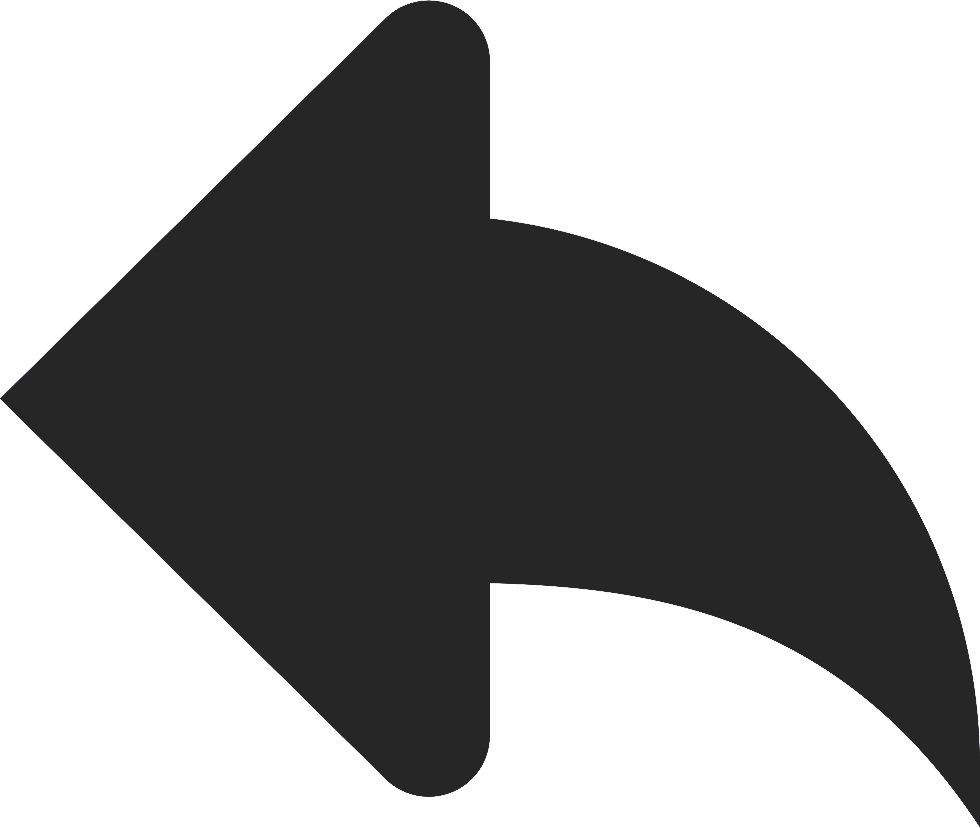
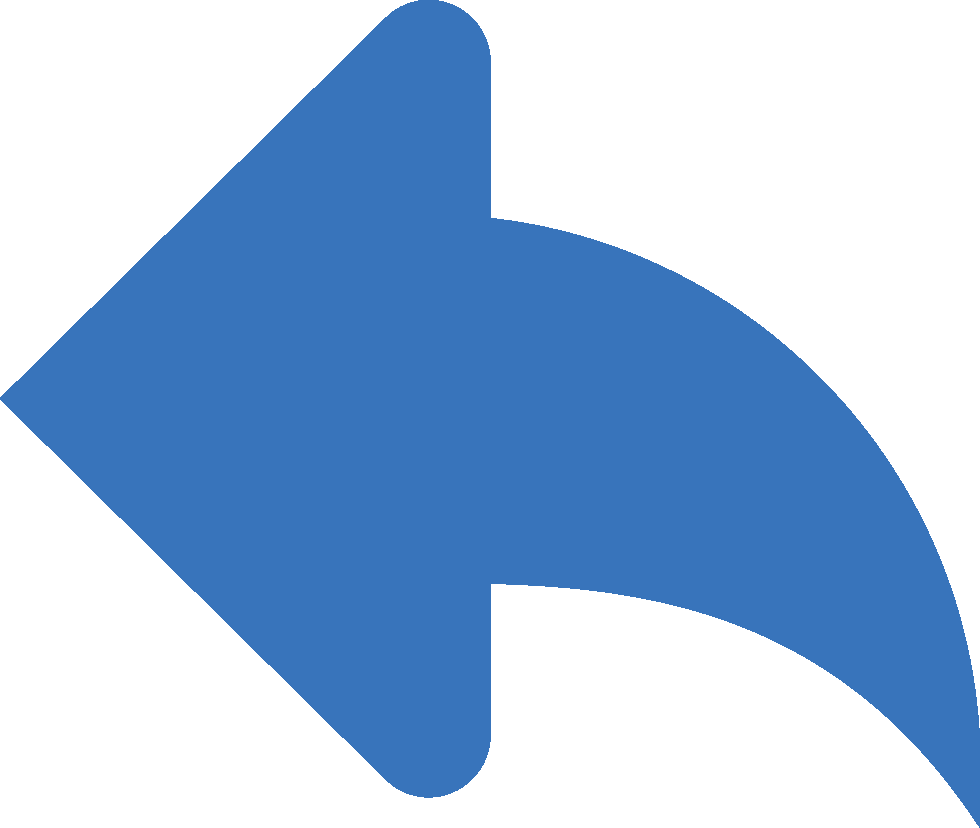
Theme_changed

diff --git a/ctdbstyle.css b/ctdbstyle.css
@@ -16,9 +16,9 @@ body{
 .outerBox{
     height: 100vh;
     width: 100vw;
+    /* min-width: 940px; */
+    background: white;
     overflow: hidden scroll;
-    align-items: center;
-    background: linear-gradient(to top left, rgb(152, 197, 249),rgb(244, 213, 241));
 }
 
 .header{
@@ -26,36 +26,48 @@ body{
     align-content: center;
     align-items: center;
     justify-content: space-between;
-    box-shadow: 2px 2px 5px  rgb(97 , 128 , 168);
+    /* box-shadow: 1px 1px 1px  rgb(97 , 128 , 168); */
     padding:0 30px 0 20px;
     height: 70px;
     width: 100vw;
-    background: rgb(255, 255, 255, 0.5);
+    background: #0574bb;
     margin: 0 auto;
-    border-radius: 0 0px 10px 10px;
+    /* border-radius: 0 0px 10px 10px; */
+    border: 1px solid black;
     position: sticky;
     top: 0;
 }
 .logo img{
-    height: 60px;
+    height: 40px;
 }
 
 .signOff a{
-    background: #004da8;
-    color: white;
+    display: flex;
+    height: 35px;
+    background: #f4f4f4;
+    color: black;
     padding: 10px;
-    border-radius: 10px;
+    border-radius: 5px;
     text-decoration: none;
+    align-items: center;
+    align-items: center;
 }
 .signOff a:hover{
-    background: linear-gradient(to top left, rgb(62, 88, 118),rgb(122, 76, 118));
+    /* background: linear-gradient(to top left, rgb(62, 88, 118),rgb(122, 76, 118)); */
+    background: #f4f4f4;
     cursor: pointer;
+}
+
+.signOff a img{
+    width: 30px;
+    height: 19px;
+    color: white;
 }
 .formDiv{
 
     display: flex;
     flex-direction: column;
-    background: rgb(255, 255, 255, 0.5);
+    background: #f4f4f4;
     width: 41vw;
     min-width: 400px;
     height: 85.2vh;
@@ -63,7 +75,7 @@ body{
     min-height: 400px;
     align-items: center;
     margin: 7vh auto;
-    box-shadow:2px 2px 10px  rgb(97 , 128 , 168);
+    box-shadow:0px 2px 10px  rgb(102, 102, 102);
     border-radius: 10px;
     overflow: hidden scroll;
 }
@@ -74,7 +86,8 @@ body{
 }
 
 .formDiv h1{
-    color: #484747;
+    color: #7d7d7d;
+    font-size: 1.5rem;
     margin-bottom: 15px;
     margin-top: 15px;
 }
@@ -86,18 +99,18 @@ body{
 }
 
 .formDiv form p label{
-    font-size: 1.1rem;
+    font-size: 1rem;
     margin-bottom: 1vh;
-    color: #363535;
+    color: #505050;
 }
 .formDiv form p input{
     padding: 1.2vh;
     font-size: 1rem;
     color: #363535;
     background: rgb(255, 255, 255, 0.6);
-    border: none;
+    border: 1px solid gray;
     border-radius: 5px;
-    box-shadow: 2px 2px 7px  rgb(97 , 128 , 168);
+    /* box-shadow: 2px 2px 7px  rgb(97 , 128 , 168); */
 }
 
 .connectButton{
@@ -107,7 +120,7 @@ body{
     margin: 10px auto;
 }
 #connect{
-    margin-top: 10px;
+    margin-top: 17px;
     padding: 10px;
     font-size: 1.1rem;
     border: none;
@@ -115,12 +128,13 @@ body{
     color: white;
     width: 15vw;
     min-width: 100px;
-    background-color: #004da8;
+    background-color: #0574bb;
     box-shadow: 2px 2px 7px  rgb(97 , 128 , 168);
 }
 
 #connect:hover{
-    background: linear-gradient(to top left, rgb(62, 88, 118),rgb(122, 76, 118));
+    /* background: linear-gradient(to top left, rgb(62, 88, 118),rgb(122, 76, 118)); */
+    background: #065e95;
     cursor: pointer;
 }
 

diff --git a/style.css b/style.css
@@ -16,7 +16,7 @@ body{
 .outerBox{
     height: 100vh;
     width: 100vw;
-    background: linear-gradient(to top left, rgb(152, 197, 249),rgb(244, 213, 241));
+    background: white;
 }
 
 .header{
@@ -24,30 +24,31 @@ body{
     align-content: center;
     align-items: center;
     justify-content: space-between;
-    box-shadow: 2px 2px 5px  rgb(97 , 128 , 168);
+    /* box-shadow: 1px 1px 1px  rgb(97 , 128 , 168); */
     padding:0 30px 0 20px;
     height: 70px;
     width: 100vw;
-    background: rgb(255, 255, 255, 0.5);
+    background: #0574bb;
     margin: 0 auto;
-    border-radius: 0 0px 10px 10px;
+    /* border-radius: 0 0px 10px 10px; */
+    border: 1px solid black;
     position: sticky;
     top: 0;
 }
 .logo img{
-    height: 60px;
+    height: 40px;
 }
 
 .connectToDb a{
-    background: #004da8;
-    color: white;
+    background: white;
+    color: #00456f;
     padding: 10px;
     border-radius: 10px;
     text-decoration: none;
 }
 .connectToDb a:hover{
-    background: linear-gradient(to top left, rgb(62, 88, 118),rgb(122, 76, 118));
-    
+    background: #5c5c5c;
+    color: #f4f4f4;
 }
 
 .bodyInside{
@@ -61,8 +62,11 @@ body{
     margin-right: 10px;
     height: 85vh;
     width: 32.5vw;
-    box-shadow: 2px 2px 5px  rgb(97, 128, 168);
-    border-radius: 10px;
+    min-width: 300px;
+    /* box-shadow: 2px 2px 5px  rgb(97, 128, 168); */
+    border: 1px solid grey;
+    /* border-radius: 10px; */
+    overflow: hidden scroll;
 }
 #column2{
     margin-left: 0;
@@ -80,18 +84,19 @@ body{
     padding: 10px;
     margin-top: 10px;
     border-radius: 7px;
-    border: none;
+    border: 1px solid grey;
     background:rgb(255, 255, 255, 0.5) ;
-    box-shadow: 2px 2px 10px  rgb(97, 128, 168);
+    /* box-shadow: 2px 2px 10px  rgb(97, 128, 168); */
 }
 
 .tableNames{
     width: 31vw;
     height: 72.7vh;
     margin-top: 15px;
+    border: 1px solid gray;
     border-radius: 7px;
     background:rgba(255, 255, 255, 0);
-    box-shadow: 2px 2px 10px  rgb(97, 128, 168);
+    box-shadow: 0px  2px 5px rgb(87, 87, 87);
 }
 
 #column3{
@@ -108,20 +113,21 @@ body{
     margin-bottom: 15px;
     border-radius: 7px;
     background:rgba(255, 255, 255, 0.5);
-    box-shadow: 2px 2px 10px  rgb(97, 128, 168);
+    /* box-shadow: 2px 2px 10px  rgb(97, 128, 168); */
+    border: 1px solid gray;
 }
 #execute{
     margin-top: 15px;
-    background: #004da8;
+    background: #0574bb;
     color: white;
     padding: 10px;
-    box-shadow: 2px 2px 10px  rgb(97, 128, 168);
+    /* box-shadow: 2px 2px 10px  rgb(97, 128, 168); */
     width: 100px;
     border-radius: 7px;
     border: none;
 }
 #execute:hover{
     color: white;
-    background: linear-gradient(to top left, rgb(62, 88, 118),rgb(122, 76, 118));
+    background: #065e95;
     cursor: pointer;
 }

diff --git a/ctdb.html b/ctdb.html
@@ -11,8 +11,8 @@
 <body>
     <div class="outerBox">
         <div class="header">
-            <div class="logo"><a href=""><img src="pictures/bajaj_logo.png" alt=""></a></div>
-            <div class="signOff"><a onclick="history.back()">Go Back</a></div>
+            <div class="logo"><a href=""><img src="pictures/Auto Finance Logo.png" alt=""></a></div>
+            <div class="signOff"><a onclick="history.back()"><img src="pictures/NicePng_back-arrow-png_1910611.png" alt=""></a></div>
         </div>
 
         <div class="formDiv">

diff --git a/index.html b/index.html
@@ -11,7 +11,7 @@
 <body>
 <div class="outerBox">
     <div class="header">
-        <div class="logo"><a href=""><img src="pictures/bajaj_logo.png" alt=""></a></div>
+        <div class="logo"><a href=""><img src="pictures/Auto Finance Logo.png" alt=""></a></div>
         <div class="connectToDb"><a href="ctdb.html">Connect to Database</a></div>
     </div>
 
